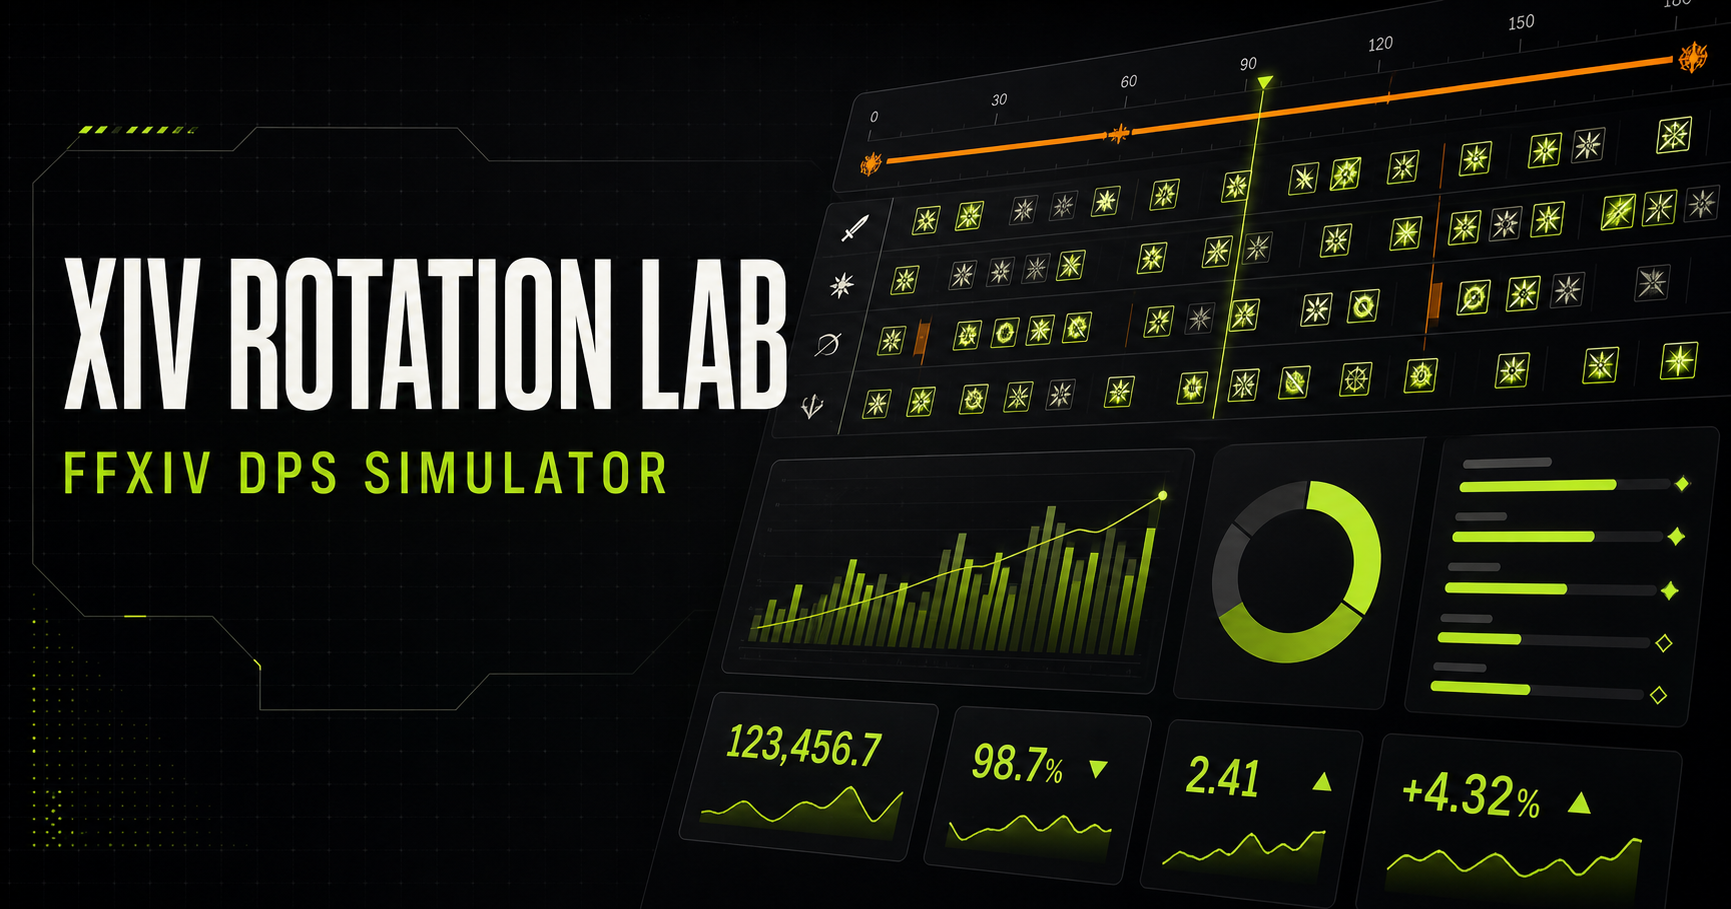
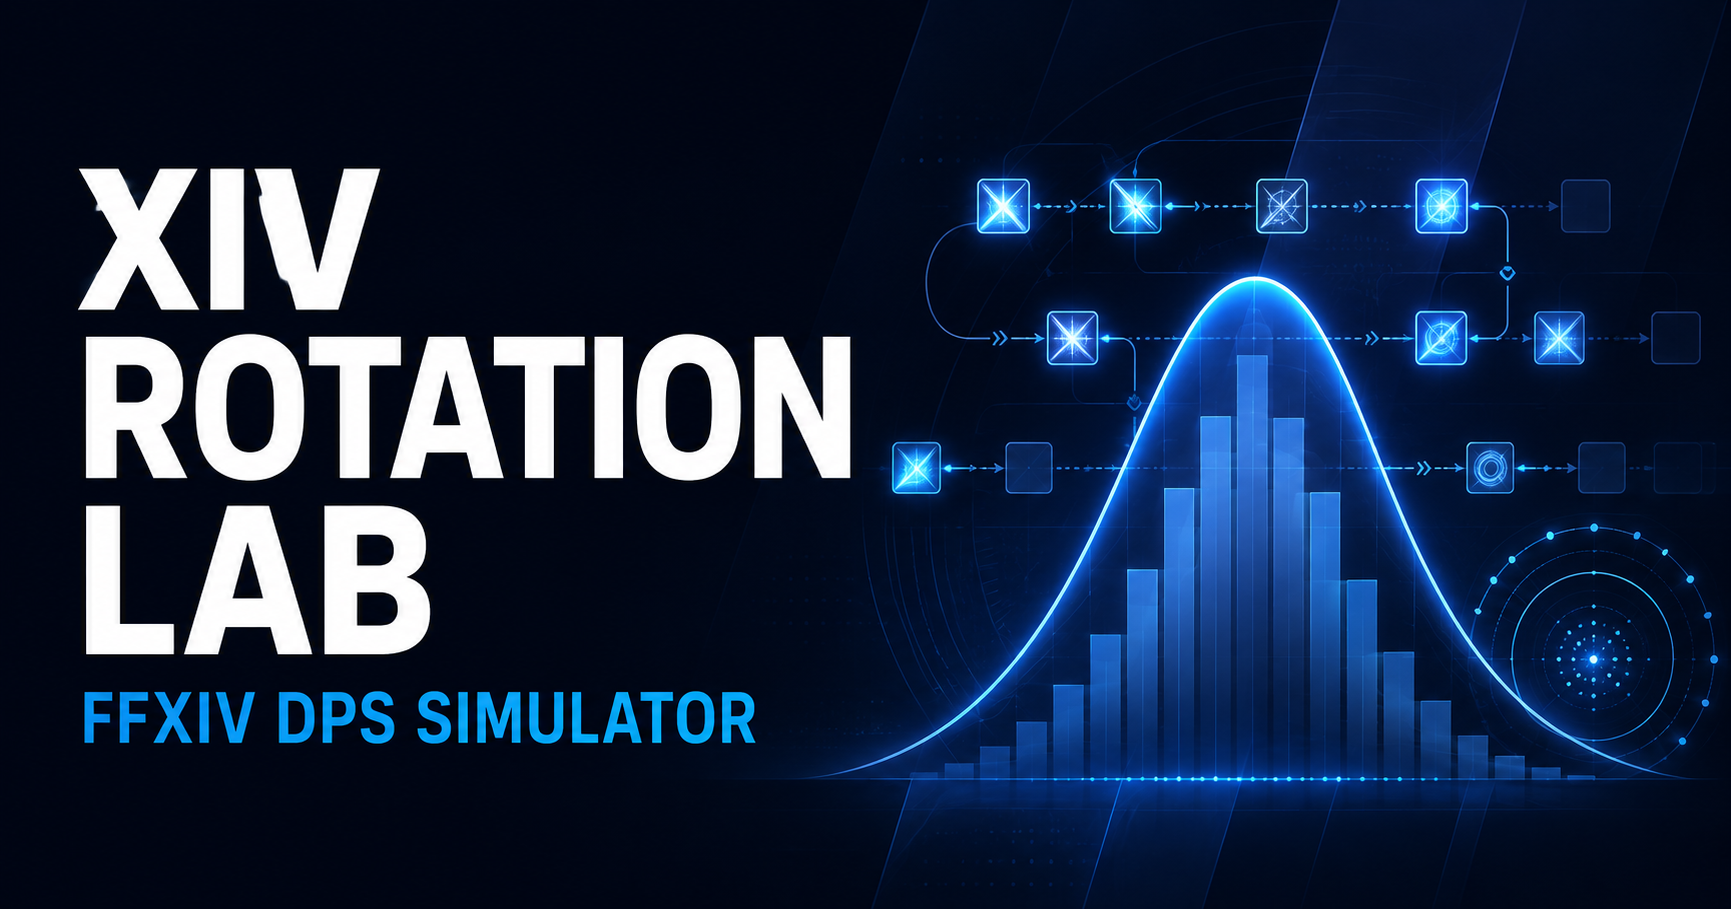
Refresh social preview with blue visual identity (#27)

diff --git a/app/layout.tsx b/app/layout.tsx
@@ -4,21 +4,28 @@ import "./extra.css";
 import "./ui-refresh.css";
 
 const pagesBasePath = (process.env.PAGES_BASE_PATH || "").replace(/\/$/, "");
+const description = "FFXIVのスキル回しを組み、DPS・ダメージ内訳・シミュレーション分布を比較。";
+const socialImage = {
+  url: `${pagesBasePath}/og.png?v=20260905`,
+  width: 1731,
+  height: 909,
+  alt: "XIV Rotation Lab — FFXIV DPS Simulator",
+};
 
 export const metadata: Metadata = {
   metadataBase: new URL(process.env.PAGES_ORIGIN || "http://localhost:3000"),
   title: "XIV Rotation Lab",
-  description: "FFXIVのローテーションを組み、期待値と実戦DPSを比較するシミュレーター。",
+  description,
   openGraph: {
     title: "XIV Rotation Lab",
-    description: "FFXIVのローテーションを組み、期待値と実戦DPSを比較するシミュレーター。",
-    images: [`${pagesBasePath}/og.png`],
+    description,
+    images: [socialImage],
   },
   twitter: {
     card: "summary_large_image",
     title: "XIV Rotation Lab",
-    description: "FFXIV DPS Simulator",
-    images: [`${pagesBasePath}/og.png`],
+    description,
+    images: [socialImage],
   },
   icons: {
     icon: `${pagesBasePath}/favicon.svg`,

diff --git a/README.md b/README.md
@@ -154,6 +154,10 @@ time,actionName,lane,boss
 
 上書き内容はローカル保存されます。「このジョブを初期値に戻す」でジョブ単位に解除できます。
 
+### Evolve対応の方針（未実装）
+
+Evolveへの対応は仕様公開まで保留しています。対応時はRebornと独立したジョブ定義を必須とし、同名アクションでも威力・効果・バフ・ゲージ処理を別々に管理します。既存のReborn定義を置き換える方式にはしません。
+
 ## 計算について
 
 ダメージ式と各段階の切り捨ては、[Allagan Studies](https://www.akhmorning.com/allagan-studies/)の検証情報を基準にしています。
